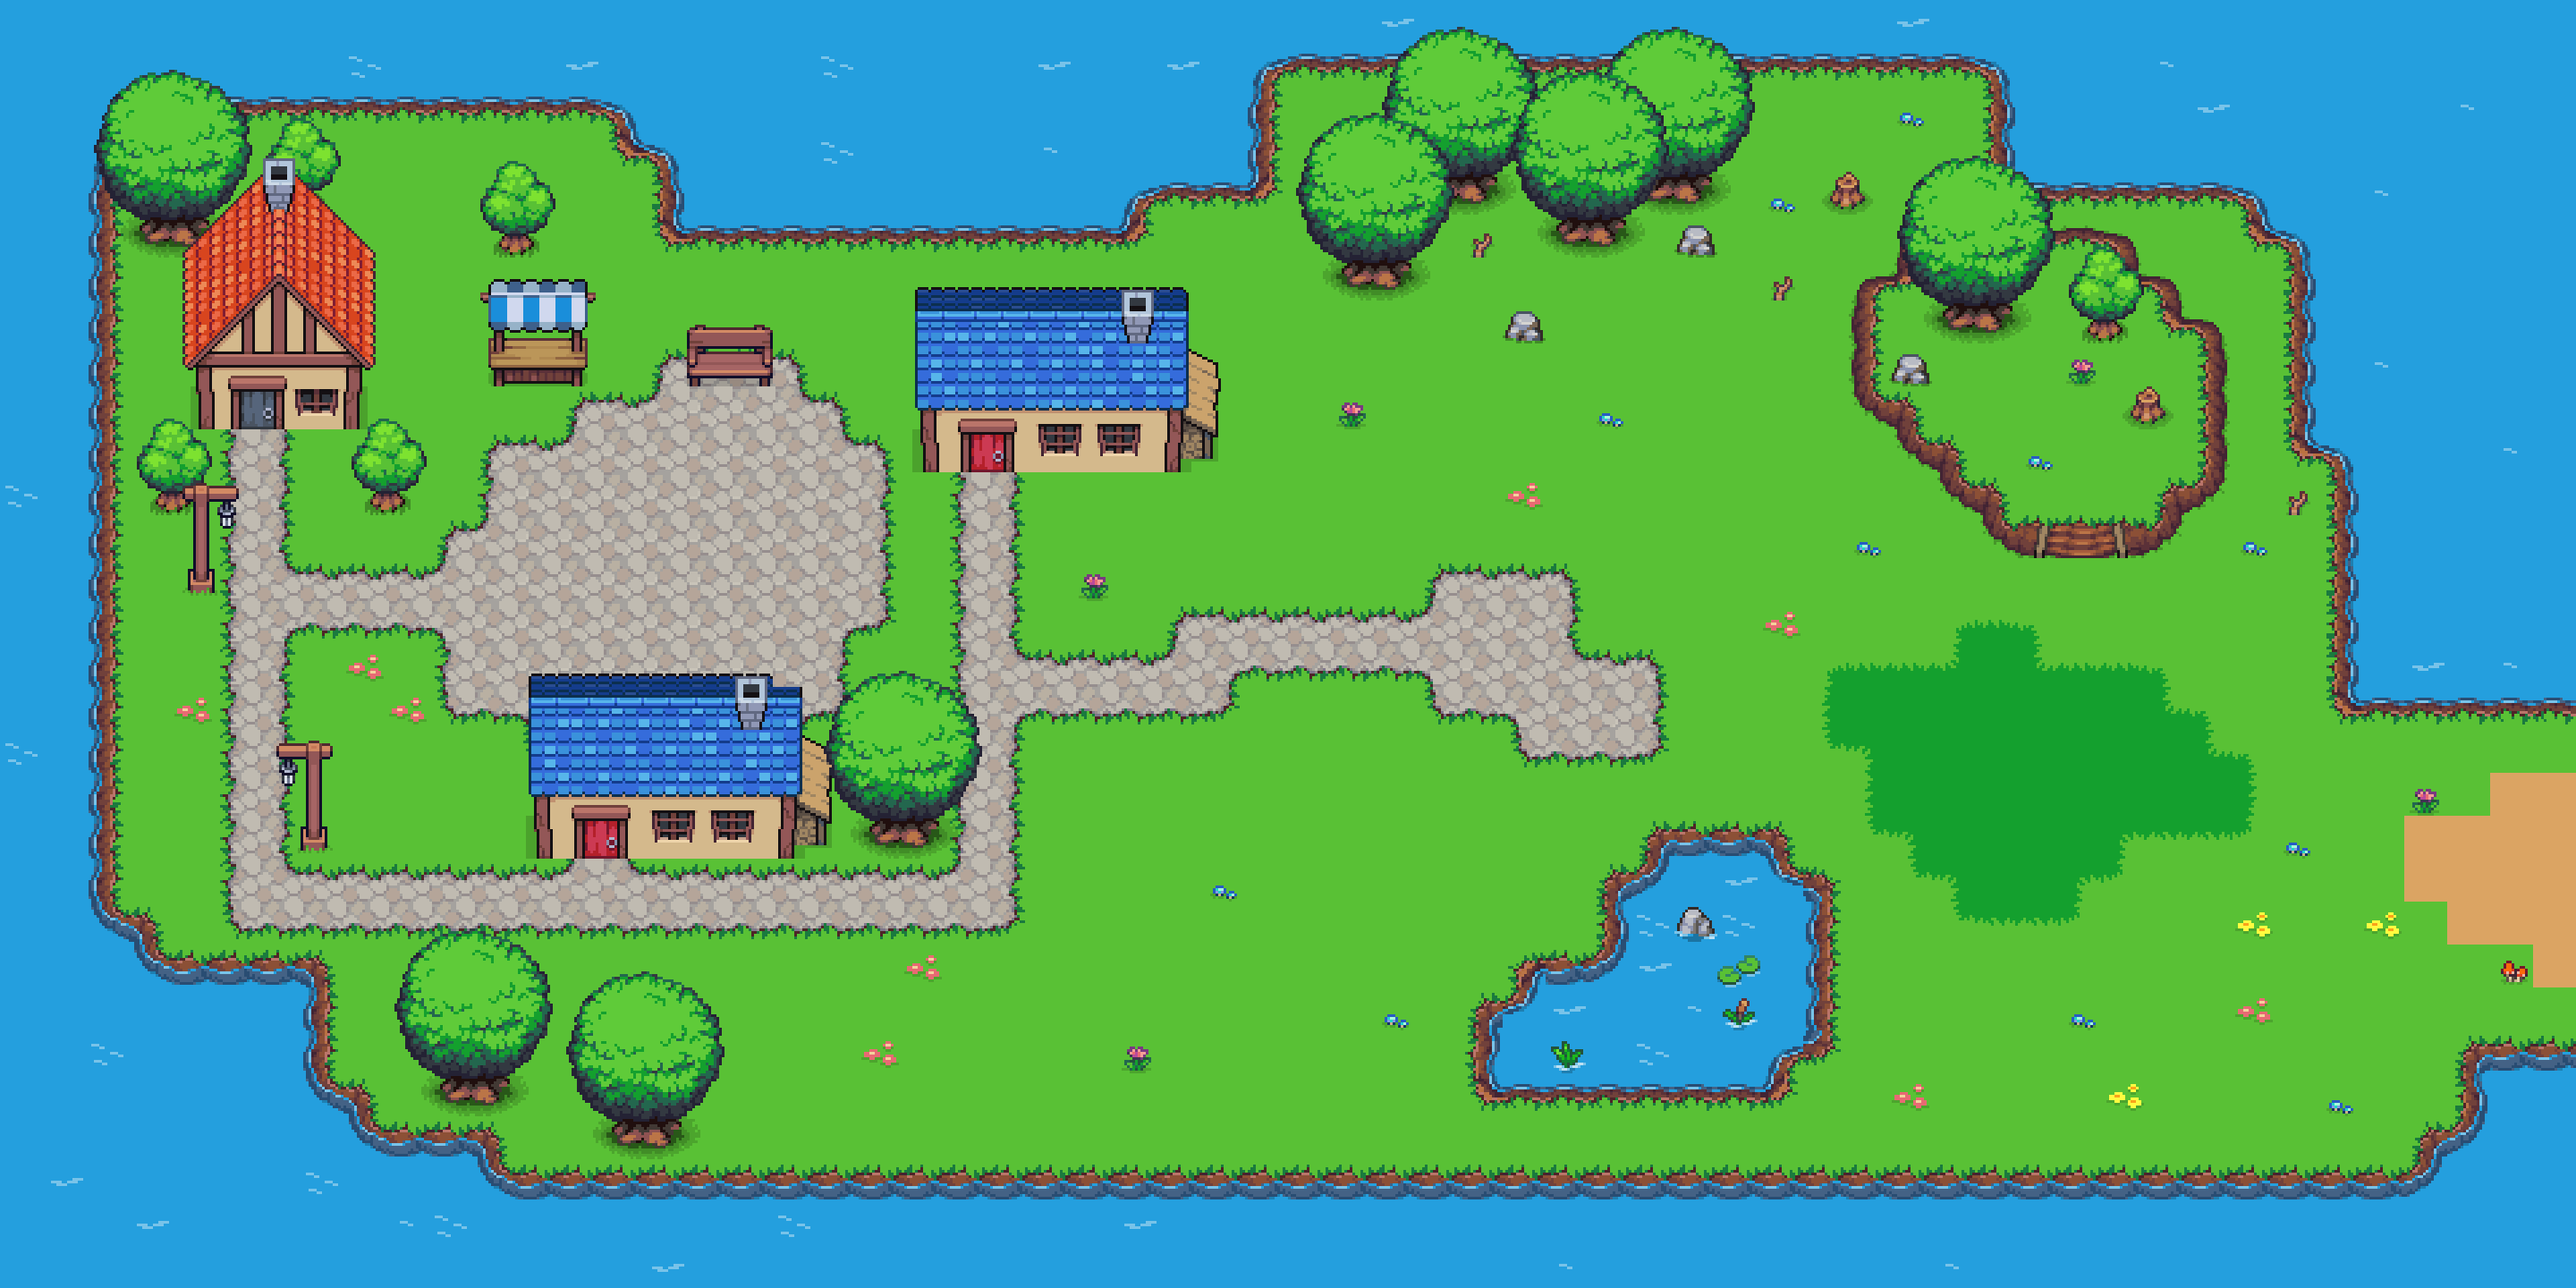
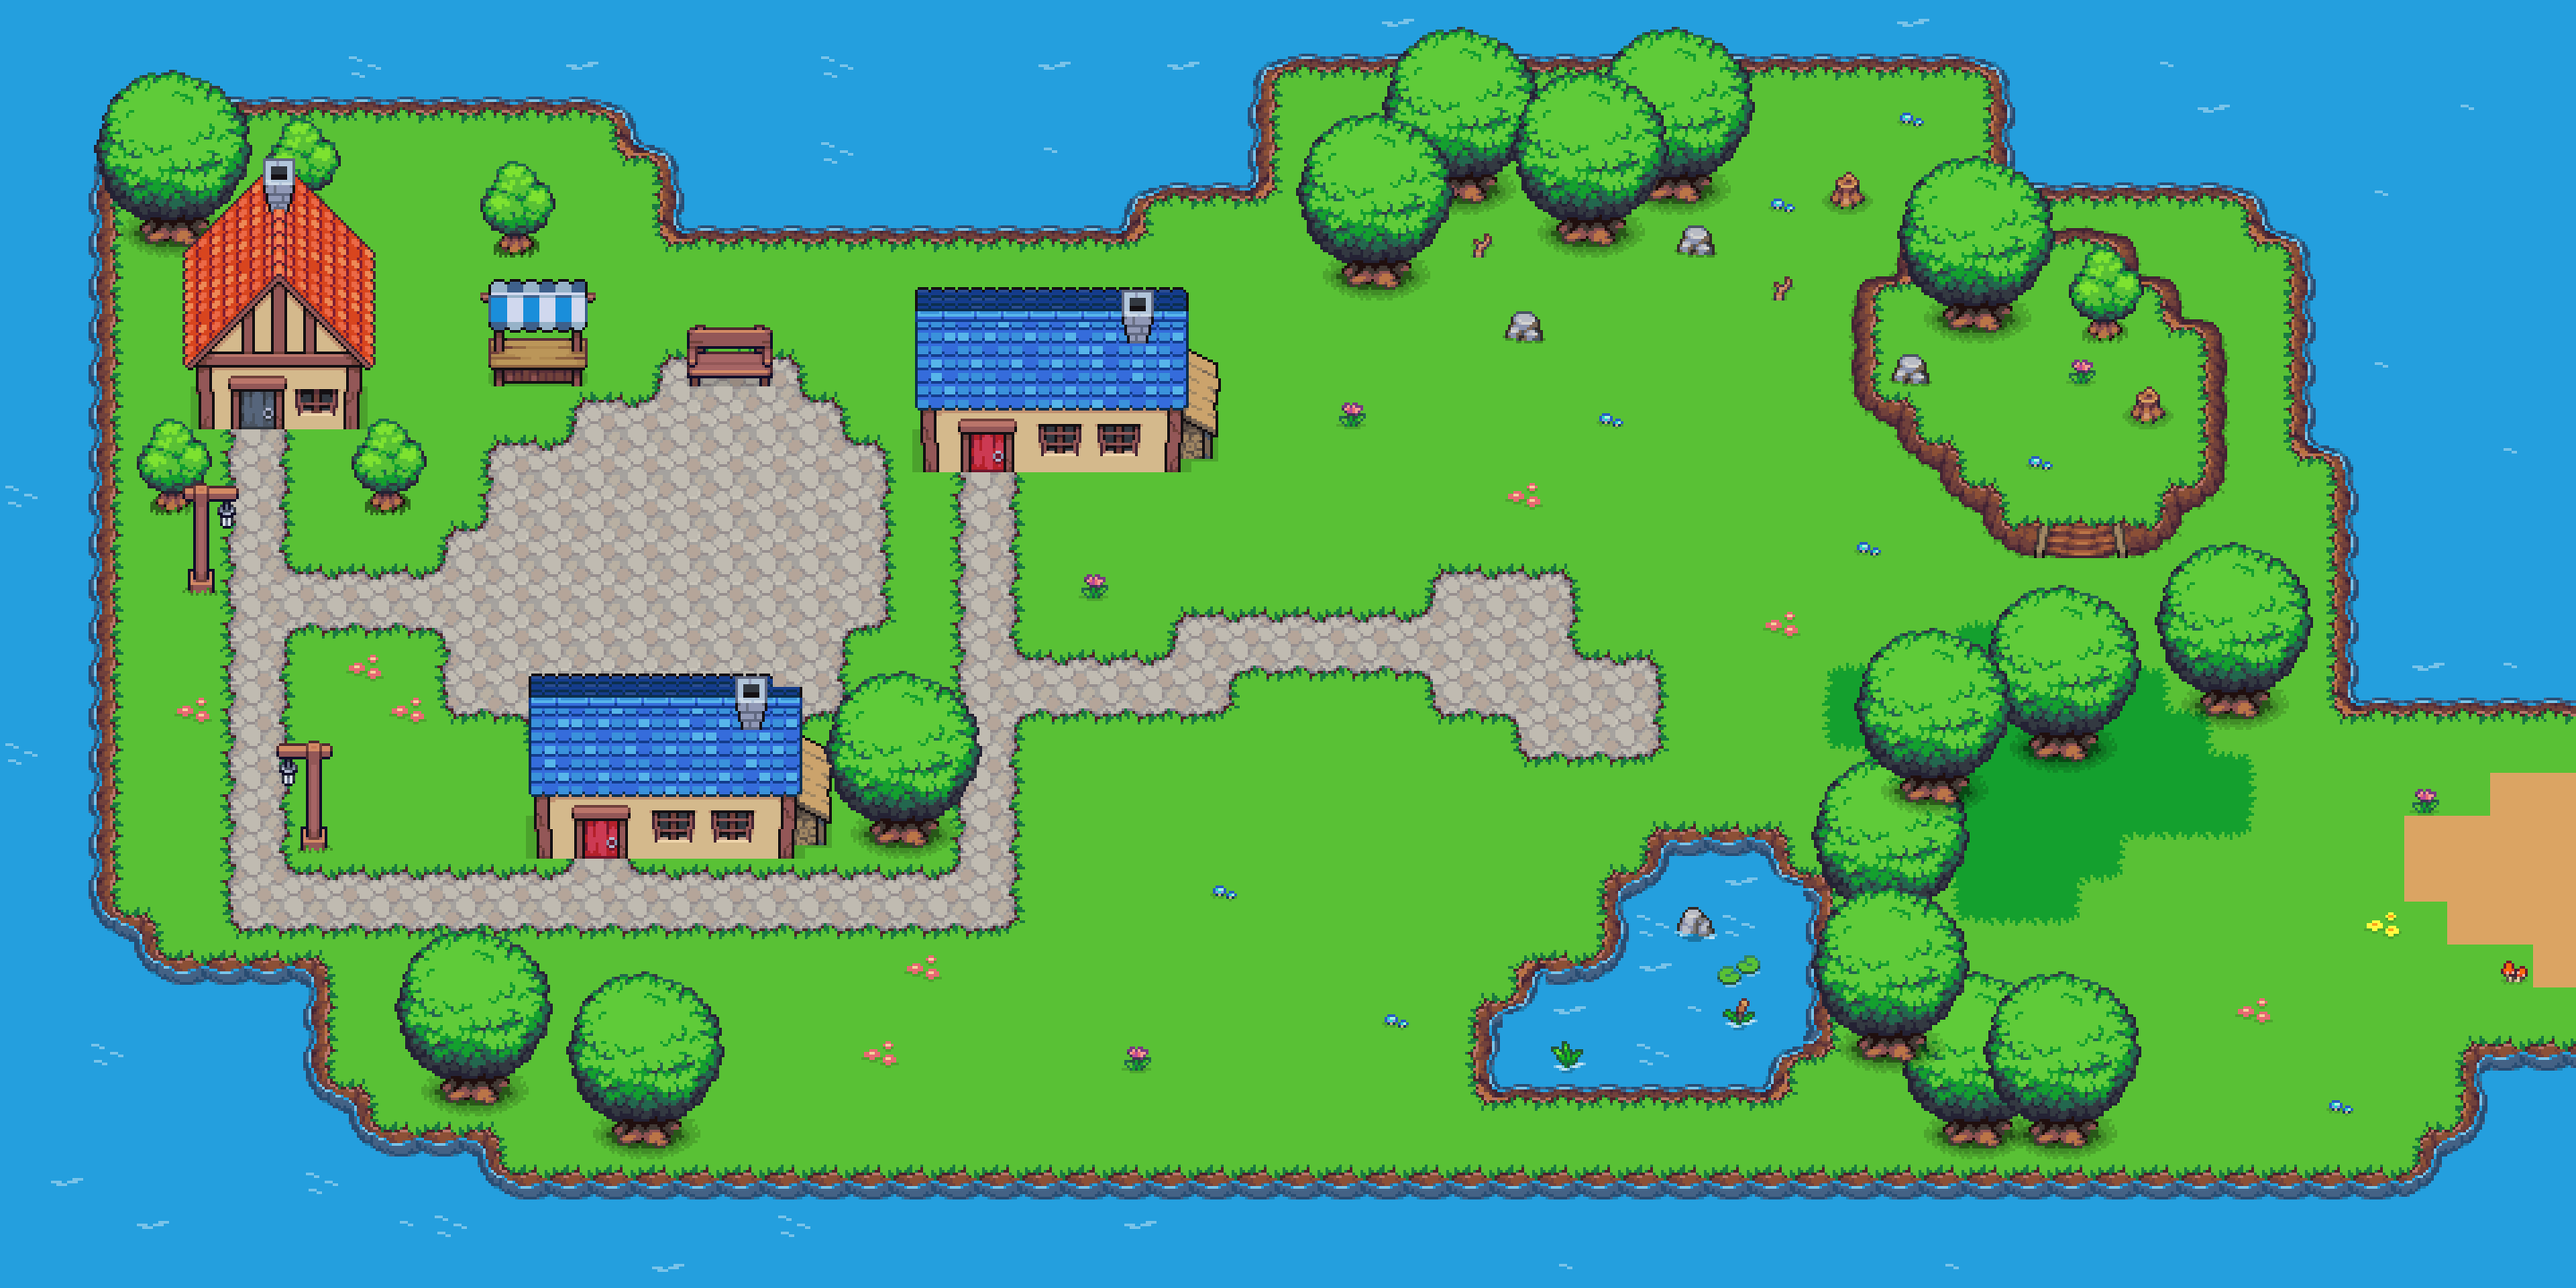
Fixed collisions

Changed region(s): [[0.6875, 0.4375, 0.9062, 0.9062], [0.875, 0.375, 0.9062, 0.4062], [0.8438, 0.4062, 0.875, 0.4375]]

diff --git a/data/collisions.js b/data/collisions.js
@@ -10,21 +10,21 @@ const collisions = [0, 0, 0, 0, 0, 0, 0, 0, 0, 0, 0, 0, 0, 0, 0, 0, 0, 0, 0, 0, 
             0, 0, 554, 0, 554, 554, 554, 554, 554, 0, 0, 0, 0, 0, 0, 0, 0, 0, 0, 0, 0, 554, 0, 0, 0, 0, 0, 0, 554, 0, 0, 0, 0, 0, 0, 0, 0, 0, 0, 0, 0, 0, 0, 554, 554, 0, 0, 0, 0, 554, 554, 554, 0, 554, 0, 0, 0, 0, 0, 0,
             0, 0, 554, 0, 0, 0, 0, 0, 0, 0, 0, 0, 0, 0, 0, 0, 0, 0, 0, 0, 0, 554, 554, 554, 554, 554, 554, 554, 554, 0, 0, 0, 0, 0, 0, 0, 0, 0, 0, 0, 0, 0, 0, 0, 554, 554, 0, 0, 0, 0, 0, 554, 0, 554, 0, 0, 0, 0, 0, 0,
             0, 0, 554, 554, 554, 0, 0, 0, 554, 554, 0, 0, 0, 0, 0, 0, 0, 0, 95, 0, 0, 0, 0, 0, 0, 0, 0, 0, 0, 0, 0, 0, 0, 0, 0, 0, 0, 0, 0, 0, 0, 0, 0, 0, 0, 554, 554, 0, 0, 0, 554, 554, 0, 0, 554, 0, 0, 0, 0, 0,
-            0, 0, 554, 0, 0, 0, 0, 0, 0, 0, 0, 0, 0, 0, 0, 0, 0, 0, 0, 0, 0, 0, 0, 0, 0, 0, 0, 0, 0, 0, 0, 0, 0, 0, 0, 0, 0, 0, 0, 0, 0, 0, 0, 0, 0, 0, 554, 0, 0, 0, 554, 0, 0, 0, 554, 0, 0, 0, 0, 0,
-            0, 0, 554, 0, 554, 0, 0, 0, 0, 0, 0, 0, 0, 0, 0, 0, 0, 0, 0, 0, 0, 0, 0, 0, 0, 0, 0, 0, 0, 0, 0, 0, 0, 0, 0, 0, 0, 0, 0, 0, 0, 0, 0, 0, 0, 0, 0, 0, 0, 0, 0, 0, 0, 0, 554, 0, 0, 0, 0, 0,
-            0, 0, 554, 0, 0, 0, 0, 0, 0, 0, 0, 0, 0, 0, 0, 0, 0, 0, 0, 0, 0, 0, 0, 0, 0, 0, 0, 0, 0, 0, 0, 0, 0, 0, 0, 0, 0, 0, 0, 0, 0, 0, 0, 0, 0, 0, 0, 0, 0, 0, 0, 0, 0, 0, 554, 0, 0, 0, 0, 0,
-            0, 0, 554, 0, 0, 0, 0, 0, 0, 0, 0, 0, 0, 0, 0, 0, 0, 0, 0, 0, 0, 0, 0, 0, 0, 0, 0, 0, 0, 0, 0, 0, 0, 0, 0, 0, 0, 0, 0, 0, 0, 0, 0, 0, 0, 0, 0, 0, 0, 0, 0, 0, 0, 0, 554, 0, 0, 0, 0, 0,
-            0, 0, 554, 0, 0, 0, 0, 0, 0, 0, 0, 0, 554, 554, 554, 554, 554, 554, 554, 0, 0, 0, 0, 0, 0, 0, 0, 0, 0, 0, 0, 0, 0, 0, 0, 0, 0, 0, 0, 0, 0, 0, 0, 0, 0, 0, 0, 0, 0, 0, 0, 0, 0, 0, 554, 554, 554, 554, 554, 554,
-            0, 0, 554, 0, 0, 0, 0, 0, 0, 0, 0, 0, 554, 0, 0, 0, 0, 0, 0, 554, 554, 554, 0, 0, 0, 0, 0, 0, 0, 0, 0, 0, 0, 0, 0, 0, 0, 0, 0, 0, 0, 0, 0, 0, 0, 0, 0, 0, 0, 0, 0, 0, 0, 0, 0, 0, 0, 0, 0, 554,
-            0, 0, 554, 0, 0, 0, 0, 0, 0, 0, 0, 0, 554, 0, 0, 0, 0, 0, 0, 0, 554, 554, 0, 0, 0, 0, 0, 0, 0, 0, 0, 0, 0, 0, 0, 0, 0, 0, 0, 0, 0, 0, 0, 0, 0, 0, 0, 0, 0, 0, 0, 0, 0, 0, 0, 0, 0, 0, 0, 554,
-            0, 0, 554, 0, 0, 0, 0, 554, 0, 0, 0, 0, 554, 554, 554, 554, 554, 554, 554, 554, 554, 554, 0, 0, 0, 0, 0, 0, 0, 0, 0, 0, 0, 0, 0, 0, 0, 0, 554, 554, 554, 554, 0, 0, 0, 0, 0, 0, 0, 0, 0, 0, 0, 0, 0, 0, 0, 0, 0, 554,
-            0, 0, 554, 0, 0, 0, 0, 0, 0, 0, 0, 0, 0, 0, 0, 0, 0, 0, 0, 0, 0, 0, 0, 0, 554, 0, 0, 0, 0, 0, 0, 0, 0, 0, 0, 0, 0, 554, 0, 0, 0, 0, 554, 0, 0, 0, 0, 0, 0, 0, 0, 0, 0, 0, 0, 0, 0, 0, 0, 554,
-            0, 0, 0, 554, 0, 0, 0, 0, 0, 0, 0, 0, 0, 0, 0, 0, 0, 0, 0, 0, 0, 0, 0, 0, 0, 0, 0, 0, 0, 0, 0, 0, 0, 0, 0, 0, 0, 554, 0, 0, 0, 0, 554, 0, 0, 0, 0, 0, 0, 0, 0, 0, 0, 0, 0, 0, 0, 0, 0, 554,
-            0, 0, 0, 0, 554, 554, 554, 554, 0, 0, 0, 0, 0, 0, 0, 0, 0, 0, 0, 0, 0, 0, 0, 0, 0, 0, 0, 0, 0, 0, 0, 0, 0, 0, 0, 554, 554, 0, 0, 0, 0, 0, 554, 0, 0, 0, 0, 0, 0, 0, 0, 0, 0, 0, 0, 0, 0, 0, 0, 554,
-            0, 0, 0, 0, 0, 0, 0, 554, 0, 0, 554, 554, 0, 0, 0, 0, 0, 0, 0, 0, 0, 0, 0, 0, 0, 0, 0, 0, 0, 0, 0, 0, 0, 0, 554, 0, 0, 0, 0, 0, 0, 0, 554, 0, 0, 0, 0, 0, 0, 0, 0, 0, 0, 0, 0, 0, 0, 0, 0, 554,
-            0, 0, 0, 0, 0, 0, 0, 554, 0, 0, 554, 554, 0, 0, 554, 554, 0, 0, 0, 0, 0, 0, 0, 0, 0, 0, 0, 0, 0, 0, 0, 0, 0, 0, 554, 0, 0, 0, 0, 0, 0, 0, 554, 0, 0, 0, 0, 0, 0, 0, 0, 0, 0, 0, 0, 0, 0, 554, 554, 554,
-            0, 0, 0, 0, 0, 0, 0, 0, 554, 0, 554, 554, 0, 0, 554, 554, 0, 0, 0, 0, 0, 0, 0, 0, 0, 0, 0, 0, 0, 0, 0, 0, 0, 0, 554, 554, 554, 554, 554, 554, 554, 554, 0, 0, 0, 0, 0, 0, 0, 0, 0, 0, 0, 0, 0, 0, 0, 554, 0, 0,
-            0, 0, 0, 0, 0, 0, 0, 0, 0, 554, 554, 554, 0, 0, 554, 554, 0, 0, 0, 0, 0, 0, 0, 0, 0, 0, 0, 0, 0, 0, 0, 0, 0, 0, 0, 0, 0, 0, 0, 0, 0, 0, 0, 0, 0, 0, 0, 0, 0, 0, 0, 0, 0, 0, 0, 0, 554, 0, 0, 0,
+            0, 0, 554, 0, 0, 0, 0, 0, 0, 0, 0, 0, 0, 0, 0, 0, 0, 0, 0, 0, 0, 0, 0, 0, 0, 0, 0, 0, 0, 0, 0, 0, 0, 0, 0, 0, 0, 0, 0, 0, 0, 0, 0, 0, 554, 554, 554, 0, 0, 0, 554, 0, 0, 0, 554, 0, 0, 0, 0, 0,
+            0, 0, 554, 0, 554, 0, 0, 0, 0, 0, 0, 0, 0, 0, 0, 0, 0, 0, 0, 0, 0, 0, 0, 0, 0, 0, 0, 0, 0, 0, 0, 0, 0, 0, 0, 0, 0, 0, 0, 0, 0, 0, 0, 554, 554, 0, 0, 0, 0, 0, 554, 0, 0, 0, 554, 0, 0, 0, 0, 0,
+            0, 0, 554, 0, 0, 0, 0, 0, 0, 0, 0, 0, 0, 0, 0, 0, 0, 0, 0, 0, 0, 0, 0, 0, 0, 0, 0, 0, 0, 0, 0, 0, 0, 0, 0, 0, 0, 0, 0, 0, 0, 0, 0, 554, 554, 0, 0, 0, 0, 0, 554, 0, 554, 554, 554, 0, 0, 0, 0, 0,
+            0, 0, 554, 0, 0, 0, 0, 0, 0, 0, 0, 0, 0, 0, 0, 0, 0, 0, 0, 0, 0, 0, 0, 0, 0, 0, 0, 0, 0, 0, 0, 0, 0, 0, 0, 0, 0, 0, 0, 0, 0, 0, 0, 554, 0, 0, 0, 0, 0, 0, 554, 554, 0, 0, 554, 0, 0, 0, 0, 0,
+            0, 0, 554, 0, 0, 0, 0, 0, 0, 0, 0, 0, 554, 554, 554, 554, 554, 554, 554, 0, 0, 0, 0, 0, 0, 0, 0, 0, 0, 0, 0, 0, 0, 0, 0, 0, 0, 0, 0, 0, 0, 0, 0, 554, 0, 0, 554, 554, 554, 554, 0, 0, 0, 0, 554, 554, 554, 554, 554, 554,
+            0, 0, 554, 0, 0, 0, 0, 0, 0, 0, 0, 0, 554, 0, 0, 0, 0, 0, 0, 554, 554, 554, 0, 0, 0, 0, 0, 0, 0, 0, 0, 0, 0, 0, 0, 0, 0, 0, 0, 0, 0, 0, 0, 554, 0, 0, 554, 554, 554, 554, 554, 554, 554, 554, 0, 0, 0, 0, 0, 554,
+            0, 0, 554, 0, 0, 0, 0, 0, 0, 0, 0, 0, 554, 0, 0, 0, 0, 0, 0, 0, 554, 554, 0, 0, 0, 0, 0, 0, 0, 0, 0, 0, 0, 0, 0, 0, 0, 0, 0, 0, 0, 0, 0, 554, 0, 0, 554, 554, 554, 554, 554, 0, 0, 0, 0, 0, 0, 0, 0, 554,
+            0, 0, 554, 0, 0, 0, 0, 554, 0, 0, 0, 0, 554, 554, 554, 554, 554, 554, 554, 554, 554, 554, 0, 0, 0, 0, 0, 0, 0, 0, 0, 0, 0, 0, 0, 0, 0, 0, 554, 554, 554, 554, 0, 554, 0, 0, 554, 554, 554, 0, 0, 0, 0, 0, 0, 0, 0, 0, 0, 554,
+            0, 0, 554, 0, 0, 0, 0, 0, 0, 0, 0, 0, 0, 0, 0, 0, 0, 0, 0, 0, 0, 0, 0, 0, 0, 0, 0, 0, 0, 0, 0, 0, 0, 0, 0, 0, 0, 554, 0, 0, 0, 0, 554, 0, 0, 0, 554, 554, 554, 0, 0, 0, 0, 0, 0, 0, 0, 0, 0, 554,
+            0, 0, 0, 554, 0, 0, 0, 0, 0, 0, 0, 0, 0, 0, 0, 0, 0, 0, 0, 0, 0, 0, 0, 0, 0, 0, 0, 0, 0, 0, 0, 0, 0, 0, 0, 0, 0, 554, 0, 0, 0, 0, 554, 0, 554, 554, 554, 554, 0, 0, 0, 0, 0, 0, 0, 0, 0, 0, 0, 554,
+            0, 0, 0, 0, 554, 554, 554, 554, 0, 0, 0, 0, 0, 0, 0, 0, 0, 0, 0, 0, 0, 0, 0, 0, 0, 0, 0, 0, 0, 0, 0, 0, 0, 0, 0, 554, 554, 0, 0, 0, 0, 0, 554, 0, 554, 554, 554, 554, 554, 0, 0, 0, 0, 0, 0, 0, 0, 0, 0, 554,
+            0, 0, 0, 0, 0, 0, 0, 554, 0, 0, 554, 554, 0, 0, 0, 0, 0, 0, 0, 0, 0, 0, 0, 0, 0, 0, 0, 0, 0, 0, 0, 0, 0, 0, 554, 0, 0, 0, 0, 0, 0, 0, 554, 554, 554, 554, 0, 0, 554, 0, 0, 0, 0, 0, 0, 0, 0, 0, 0, 554,
+            0, 0, 0, 0, 0, 0, 0, 554, 0, 0, 554, 554, 0, 0, 554, 554, 0, 0, 0, 0, 0, 0, 0, 0, 0, 0, 0, 0, 0, 0, 0, 0, 0, 0, 554, 0, 0, 0, 0, 0, 0, 0, 554, 554, 554, 554, 0, 0, 554, 554, 0, 0, 0, 0, 0, 0, 0, 554, 554, 554,
+            0, 0, 0, 0, 0, 0, 0, 0, 554, 0, 554, 554, 0, 0, 554, 554, 0, 0, 0, 0, 0, 0, 0, 0, 0, 0, 0, 0, 0, 0, 0, 0, 0, 0, 554, 554, 554, 554, 554, 554, 554, 554, 0, 0, 0, 0, 0, 0, 554, 554, 0, 0, 0, 0, 0, 0, 0, 554, 0, 0,
+            0, 0, 0, 0, 0, 0, 0, 0, 0, 554, 554, 554, 0, 0, 554, 554, 0, 0, 0, 0, 0, 0, 0, 0, 0, 0, 0, 0, 0, 0, 0, 0, 0, 0, 554, 554, 554, 0, 0, 0, 0, 0, 0, 0, 0, 0, 0, 0, 0, 554, 0, 0, 0, 0, 0, 0, 554, 0, 0, 0,
             0, 0, 0, 0, 0, 0, 0, 0, 0, 0, 0, 0, 554, 554, 554, 554, 554, 554, 554, 554, 554, 554, 554, 554, 554, 554, 554, 554, 554, 554, 554, 554, 554, 554, 554, 554, 554, 554, 554, 554, 554, 554, 554, 554, 554, 554, 554, 554, 554, 554, 554, 554, 554, 554, 554, 554, 0, 0, 0, 0,
-            0, 0, 0, 0, 0, 0, 0, 0, 0, 0, 0, 0, 0, 0, 0, 0, 0, 0, 0, 0, 0, 0, 0, 0, 0, 0, 0, 0, 0, 0, 0, 0, 0, 0, 0, 0, 0, 0, 0, 0, 0, 0, 0, 0, 0, 0, 0, 0, 0, 0, 0, 0, 0, 0, 0, 0, 0, 0, 0, 0,
+            0, 0, 0, 0, 0, 0, 0, 0, 0, 0, 0, 0, 0, 0, 0, 0, 0, 0, 0, 0, 0, 0, 0, 0, 0, 0, 0, 0, 0, 0, 0, 0, 0, 0, 0, 0, 554, 554, 554, 554, 0, 0, 0, 0, 0, 0, 0, 0, 0, 0, 0, 0, 0, 0, 0, 0, 0, 0, 0, 0,
             0, 0, 0, 0, 0, 0, 0, 0, 0, 0, 0, 0, 0, 0, 0, 0, 0, 0, 0, 0, 0, 0, 0, 0, 0, 0, 0, 0, 0, 0, 0, 0, 0, 0, 0, 0, 0, 0, 0, 0, 0, 0, 0, 0, 0, 0, 0, 0, 0, 0, 0, 0, 0, 0, 0, 0, 0, 0, 0, 0]

diff --git a/index.js b/index.js
@@ -329,6 +329,9 @@ window.addEventListener('keyup', (e) => {
 })
 
 
+
+// AUDIO
+
 const townmusic = new Audio('K_Audio/town4.mp3'); townmusic.loop = true;
 let townMusicStarted = false;
 let gameStart = false;
@@ -357,7 +360,10 @@ document.addEventListener('visibilitychange', () => {
 playButton.onload = function() { c.drawImage(playButton, canvas.width/2-64,canvas.height/2-64, 128, 128); };
 window.addEventListener('click', (event) => {
     if(!gameStart) {
+<<<<<<< HEAD
       animate();
+=======
+>>>>>>> b5b561a (Fixed image)
       playTownMusic();
       gameStart = true;
     }
@@ -365,3 +371,7 @@ window.addEventListener('click', (event) => {
       playTownMusic();
     }
 });
+
+if (player.y >= 953){
+    !background.draw();
+}
